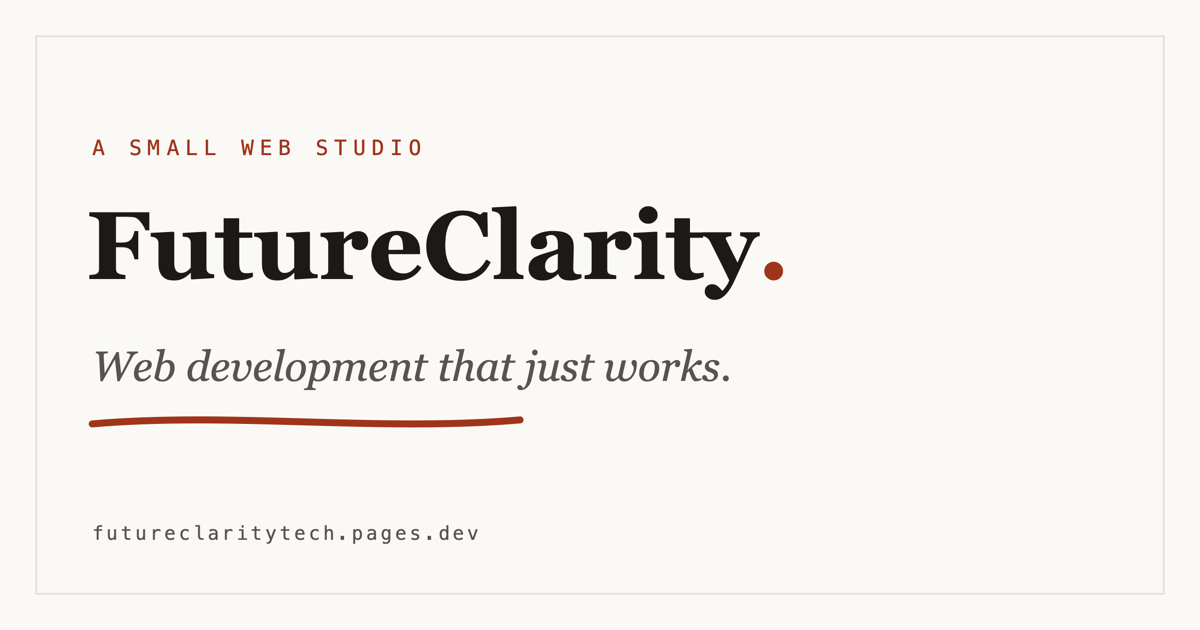
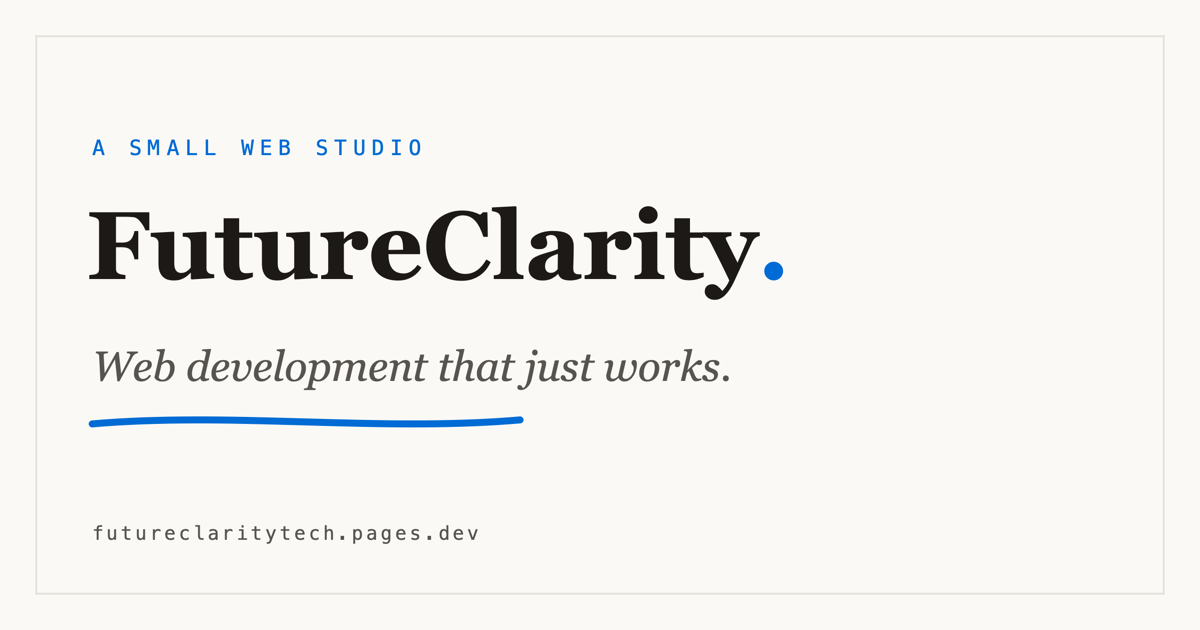
Switch the accent to a trust-blue azure
Move the accent from rust to a confident azure (#1A6AD9), the
research-backed trust-blue family, kept bright rather than navy so
it reads strong and positive. Recolored the share image and the
selection highlight to match.

Changed region(s): [[0.0617, 0.6333, 0.4317, 0.6937], [0.0617, 0.2111, 0.37, 0.2413], [0.6167, 0.4222, 0.6783, 0.4524]]

diff --git a/src/styles/global.css b/src/styles/global.css
@@ -7,8 +7,11 @@
   --color-soft: #57534e;
   --color-faint: #7d786f;
   --color-line: #e6e2da;
-  --color-accent: #9a3412;
-  --color-accent-deep: #7a2a0f;
+  /* Accent: a confident trust-blue azure (bright, not navy). Tuned to
+     pass contrast for small text on the paper background and white text
+     on solid fills. */
+  --color-accent: #1a6ad9;
+  --color-accent-deep: #1456b8;
 
   --font-display: "Fraunces", "Iowan Old Style", Georgia, serif;
   --font-sans: "Public Sans", -apple-system, BlinkMacSystemFont, "Segoe UI", Roboto, sans-serif;
@@ -42,7 +45,7 @@
   }
 
   ::selection {
-    background-color: #eaddca;
+    background-color: #cfe0fb;
   }
 
   :focus-visible {